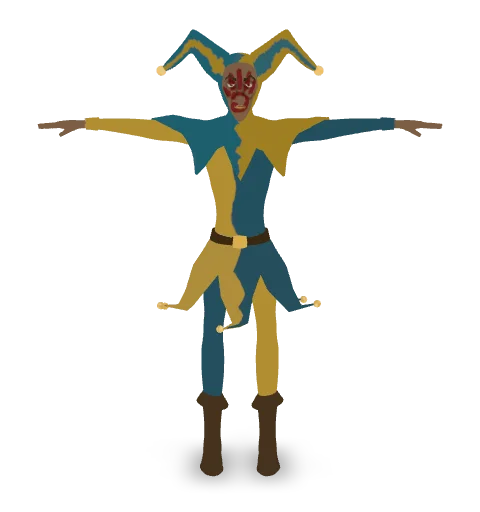
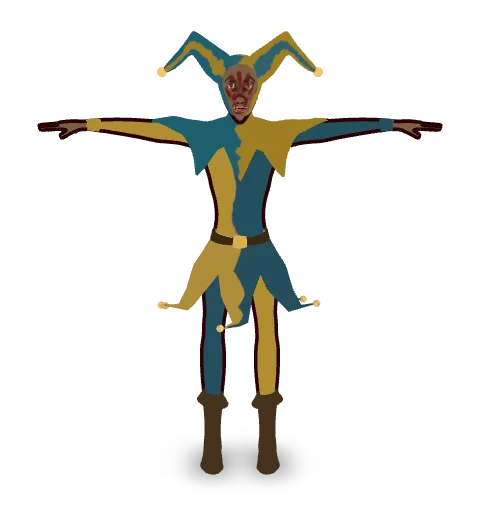
Add files via upload

diff --git a/index.html b/index.html
@@ -10,7 +10,7 @@
   <body>
     <!-- <model-viewer> HTML element -->
     <model-viewer
-      src="UcgjjlAp.glb"
+      src="Fortunato2k v3.glb"
       ar
       ar-modes="webxr scene-viewer quick-look"
       camera-controls